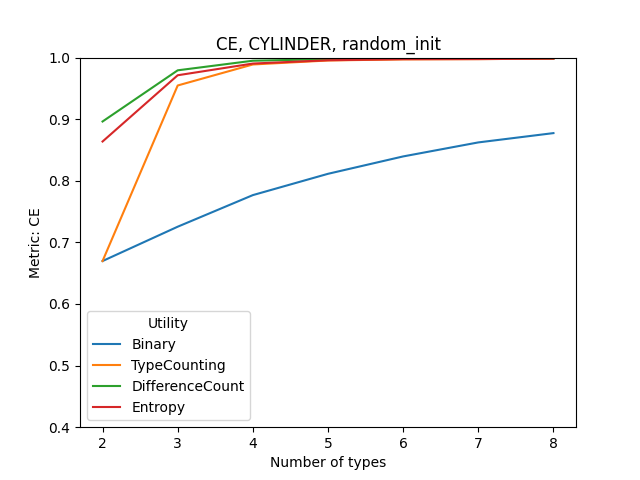
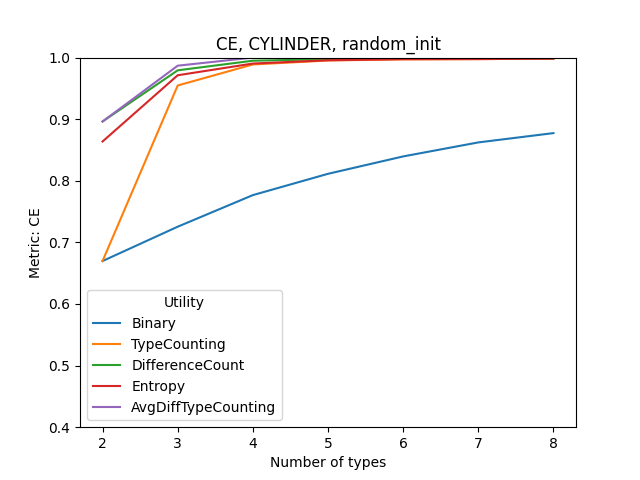
Add files via upload

diff --git a/results/20240503-stats/metric_graph.py b/results/20240503-stats/metric_graph.py
@@ -25,8 +25,8 @@ TYPES = [2,3,4,5,6,7,8]
 WORLDS = ['CIRCLE_WORLD', 'CYLINDER_WORLD', 'GRID_4DEG_WORLD', 'GRID_8DEG_WORLD']
 # WORLDS = ['GRID_8DEG_WORLD']
 UTILITIES = ['BinaryDiversityUtility', 'TypeCountingDiversityUtility', 
-             'DifferenceCountDiversityUtility', 'EntropyDivertiyUtility']#, 
-            # 'AvgDiffTypeCountingDiversityUtility']
+             'DifferenceCountDiversityUtility', 'EntropyDivertiyUtility', 
+             'AvgDiffTypeCountingDiversityUtility']
 INITIALIZATIONS = ['random_init', 'schelling_init'] #'block_init', 
 SWAP_CONDS = ['individual_greater'] #, 'individual_no_worse', 'sum_greater']
 
@@ -56,7 +56,7 @@ def read_file(metric, world, initialization, utility):
         line_data[num_type] = mean_metrics
     return line_data
 
-if False: # plot all utilities in each graph 
+if True: # plot all utilities in each graph 
     def iter_graphs():
         for metric in focused_metrics:
             for world in WORLDS:
@@ -83,7 +83,7 @@ if False: # plot all utilities in each graph
         plt.savefig('%s/20240503-stats/%s_%s_%s.png' % (ROOT, world, initialization, legend_label_map[metric]))
         plt.close()
 
-if True: # plot PoA for each graph 
+if False: # plot PoA for each graph 
     def iter_graphs():
         for metric in focused_metrics:
             for utility in UTILITIES:
@@ -109,3 +109,4 @@ if True: # plot PoA for each graph
         plt.legend(title='Graph degree')
         plt.savefig('%s/20240503-stats/PoA_%s_%s_%s.png' % (ROOT, legend_label_map[metric], utility, initialization))
         plt.close()
+
